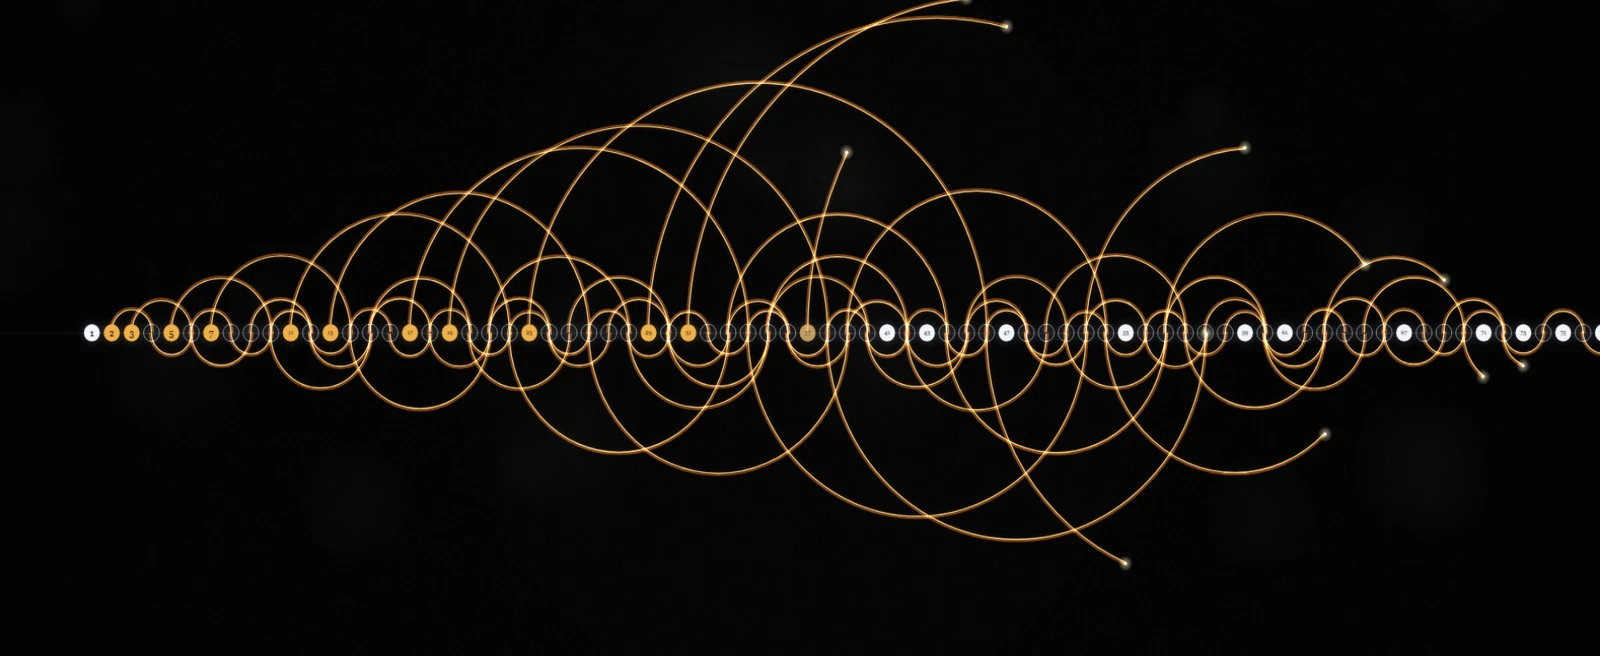
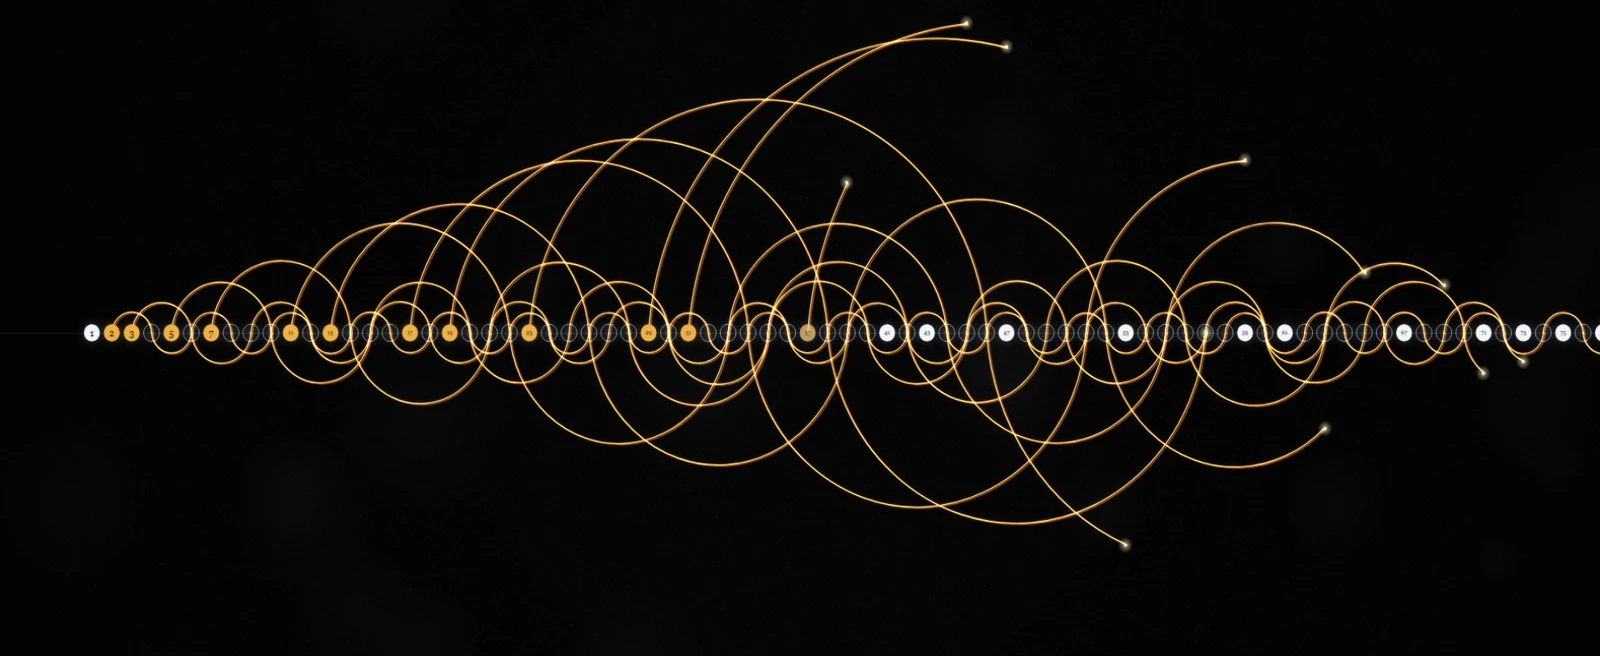
fix(prime-sieve-arcs): let hops meet on the number, with a corner
The kink where a hop crosses the number line was a step: each hop was drawn a
couple of pixels off the line, so the half above and the half below did not
meet. At any zoom that reads as a broken line rather than a hand-drawn one.

A hop is now drawn a hair flatter than a half circle instead. Growing the radius
slightly and pushing the centre to the far side of the line keeps both ends
exactly on their numbers while tilting the ends off vertical, so two hops touch
and the line has a small corner there. hopArc and hopSweep take that bulge and
hopWobble varies it, so no two corners look alike. New tests pin the part that
matters: both ends of a bulged hop land on their numbers, for either side and
for every bulge.

The companion strand beside the core moved to a constant screen shift as well.
It used to be offset along the radius, which flipped sides at a crossing and
left an orange blob right where the join should be clean.

diff --git a/web-projects/prime-sieve-arcs/sieve.test.js b/web-projects/prime-sieve-arcs/sieve.test.js
@@ -119,19 +119,25 @@ describe("hopInProgress", () => {
 });
 
 describe("hopArc", () => {
-  test("turns a hop into a circle centred on the number line", () => {
-    expect(hopArc({ from: 7, to: 14, side: "above" })).toEqual({ center: 10.5, radius: 3.5 });
-    expect(hopArc({ from: 2, to: 4, side: "below" })).toEqual({ center: 3, radius: 1 });
+  test("turns a hop into a circle sitting on the number line", () => {
+    expect(hopArc({ from: 7, to: 14, side: "above" })).toEqual({ center: 10.5, radius: 3.5, offset: 0 });
+    expect(hopArc({ from: 2, to: 4, side: "below" })).toEqual({ center: 3, radius: 1, offset: 0 });
+  });
+
+  test("a bulge grows the circle and pushes its centre off the line", () => {
+    const arc = hopArc({ from: 0, to: 10, side: "above" }, 0.01);
+    expect(arc.center).toBe(5);
+    expect(arc.radius).toBeCloseTo(5.05, 10);
+    // the centre drops by exactly the amount that keeps the ends on the line
+    expect(arc.offset).toBeCloseTo(Math.sqrt(5.05 ** 2 - 25), 10);
   });
 });
 
 describe("hopSweep", () => {
-  const TAU = Math.PI * 2;
-
   test("a finished hop above the line sweeps the upper half clockwise", () => {
     expect(hopSweep({ from: 2, to: 4, side: "above" }, 4)).toEqual({
-      start: Math.PI,
-      end: TAU,
+      start: -Math.PI,
+      end: 0,
       anticlockwise: false,
     });
   });
@@ -144,17 +150,59 @@ describe("hopSweep", () => {
     });
   });
 
-  test("clips a growing hop at the frontier", () => {
+  test("clips a growing hop at the pen", () => {
     const above = hopSweep({ from: 2, to: 4, side: "above" }, 3);
-    expect(above.end).toBeCloseTo(TAU - Math.PI / 2, 10); // apex, straight up
+    expect(above.end).toBeCloseTo(-Math.PI / 2, 10); // apex, straight up
     const below = hopSweep({ from: 4, to: 6, side: "below" }, 5);
     expect(below.end).toBeCloseTo(Math.PI / 2, 10); // apex, straight down
   });
 
-  test("clamps a frontier past the landing and returns null before the start", () => {
-    expect(hopSweep({ from: 2, to: 4, side: "above" }, 99).end).toBeCloseTo(TAU, 10);
+  test("clamps a pen past the landing and returns null before the start", () => {
+    expect(hopSweep({ from: 2, to: 4, side: "above" }, 99).end).toBeCloseTo(0, 10);
     expect(hopSweep({ from: 2, to: 4, side: "above" }, 2)).toBeNull();
     expect(hopSweep({ from: 2, to: 4, side: "above" }, 1)).toBeNull();
+  });
+});
+
+// The lines in the reference frames are not smooth where they cross the number line, but
+// they do meet: no step, no gap. Drawing each hop a hair flatter than a half circle keeps
+// both ends exactly on their numbers while the tangent tilts, so neighbours meet at a
+// small corner.
+describe("a bulged hop still lands on its numbers", () => {
+  const endpoints = (hop, bulge) => {
+    const { center, radius, offset } = hopArc(hop, bulge);
+    const sweep = hopSweep(hop, hop.to, bulge);
+    const lift = hop.side === "above" ? offset : -offset; // centre sits on the far side
+    const point = (angle) => ({
+      x: center + radius * Math.cos(angle),
+      y: lift + radius * Math.sin(angle), // measured down from the number line
+    });
+    return [point(sweep.start), point(sweep.end)];
+  };
+
+  for (const side of ["above", "below"]) {
+    test(`both ends of a hop ${side} the line stay on it`, () => {
+      for (const bulge of [0, 0.0005, 0.004, 0.02]) {
+        const [left, right] = endpoints({ from: 12, to: 30, side }, bulge);
+        expect(left.x).toBeCloseTo(12, 9);
+        expect(right.x).toBeCloseTo(30, 9);
+        expect(left.y).toBeCloseTo(0, 9);
+        expect(right.y).toBeCloseTo(0, 9);
+      }
+    });
+  }
+
+  test("a bulge tilts the ends off vertical, which is what makes the corner", () => {
+    const straight = hopSweep({ from: 0, to: 10, side: "above" }, 10, 0);
+    const tilted = hopSweep({ from: 0, to: 10, side: "above" }, 10, 0.004);
+    expect(tilted.start).toBeGreaterThan(straight.start); // starts short of straight down
+    expect(Math.abs(tilted.start - straight.start)).toBeLessThan(0.2); // and only just
+  });
+
+  test("a bulged hop is a little flatter, never taller", () => {
+    const { radius, offset } = hopArc({ from: 0, to: 10, side: "above" }, 0.004);
+    expect(radius - offset).toBeLessThan(5);
+    expect(radius - offset).toBeGreaterThan(4.5);
   });
 });
 

diff --git a/web-projects/prime-sieve-arcs/sieve.js b/web-projects/prime-sieve-arcs/sieve.js
@@ -6,8 +6,6 @@
 // composite exactly when some hop lands on it. See AGENTS.md for the measurements
 // that fix these rules.
 
-const TAU = Math.PI * 2;
-
 /** Primes from 2 up to and including `limit`. */
 export function primesUpTo(limit) {
   if (!Number.isFinite(limit) || limit < 2) return [];
@@ -54,25 +52,40 @@ export function hopInProgress(p, frontier) {
   return frontier > hop.from && frontier < hop.to ? hop : null;
 }
 
-/** The circle a hop rides on: centre and radius, in number-line units. */
-export function hopArc({ from, to }) {
-  return { center: (from + to) / 2, radius: (to - from) / 2 };
+/**
+ * The circle a hop rides on, in number-line units. With no bulge it is a half circle
+ * centred on the line. A bulge grows the radius and pushes the centre `offset` to the far
+ * side of the line, which keeps both ends exactly on their numbers while the arc gets a
+ * little flatter and its ends tilt off vertical. That tilt is the kink where two hops
+ * meet: they touch, but the line has a corner. See `hopWobble`.
+ */
+export function hopArc({ from, to }, bulge = 0) {
+  const half = (to - from) / 2;
+  const radius = half * (1 + Math.max(bulge, 0));
+  return {
+    center: (from + to) / 2,
+    radius,
+    offset: Math.sqrt(Math.max(radius * radius - half * half, 0)),
+  };
 }
 
 /**
- * Canvas angles for the part of a hop drawn so far, given the frontier at `clipTo`.
- * Returns null while the hop has not started. Canvas y grows downwards, so an "above"
- * hop sweeps from PI to TAU (through 3*PI/2, the top) and a "below" hop from PI to 0.
+ * Canvas angles for the part of a hop drawn so far, given the pen at `clipTo`. Returns
+ * null while the hop has not started. Canvas y grows downwards, so an "above" hop sweeps
+ * from -PI up to 0 (through -PI/2, the top) and a "below" hop from PI down to 0. The
+ * caller puts the centre `offset` below the line for an "above" hop, above it for a
+ * "below" one.
  */
-export function hopSweep(hop, clipTo) {
+export function hopSweep(hop, clipTo, bulge = 0) {
   const { from, to, side } = hop;
   if (clipTo <= from) return null;
-  const { center, radius } = hopArc(hop);
-  const reach = Math.min(Math.max((Math.min(clipTo, to) - center) / radius, -1), 1);
-  const swept = Math.acos(reach); // PI at the left end, 0 at the right end
+  const { center, radius } = hopArc(hop, bulge);
+  const swept = (unit) => Math.acos(Math.min(Math.max((unit - center) / radius, -1), 1));
+  const start = swept(from); // PI at the left end with no bulge, a little less with one
+  const end = swept(Math.min(clipTo, to)); // 0 at the right end
   return side === "above"
-    ? { start: Math.PI, end: TAU - swept, anticlockwise: false }
-    : { start: Math.PI, end: swept, anticlockwise: true };
+    ? { start: -start, end: end === 0 ? 0 : -end, anticlockwise: false }
+    : { start, end, anticlockwise: true };
 }
 
 /** Pixels per number-line unit so that `visibleUnits` fit inside a padded width. */
@@ -167,9 +180,10 @@ export function numberStateAt(n, elapsed, pace = DEFAULT_PACE, fadeSeconds = 0.5
 }
 
 /**
- * A tiny offset, -1 to 1, for one hop. The lines in the reference frames do not meet
- * cleanly where they cross the number line, so each hop sits a hair off its neighbour.
- * Deterministic, because the picture is redrawn from scratch every frame.
+ * A tiny number, -1 to 1, that varies one hop's bulge. The lines in the reference frames
+ * are not smooth where they cross the number line, and varying the bulge keeps those
+ * corners from all looking alike. Deterministic, because the picture is redrawn from
+ * scratch every frame.
  */
 export function hopWobble(prime, index) {
   const spun = Math.sin(prime * 12.9898 + index * 78.233) * 43758.5453;

diff --git a/web-projects/prime-sieve-arcs/render.js b/web-projects/prime-sieve-arcs/render.js
@@ -68,7 +68,10 @@ const LOOP = params.get("loop") !== "0";
 const HOLD_SECONDS = 3;
 const FADE_SECONDS = 0.9; // the fade out at the end of a sweep
 const CHIP_FADE = 0.45; // how long a chip takes to change look
-const KINK_PX = 1.7; // how far a hop sits off its neighbour where they meet
+// How much flatter than a half circle a hop is drawn. It keeps both ends exactly on their
+// numbers while the ends tilt off vertical, so two hops meet at a small corner instead of
+// a step. The reference frames show that corner; hopWobble varies it hop by hop.
+const BULGE = 0.004;
 
 // Sampled from the reference frames: warm lines, white chips for numbers still in play,
 // amber for a prime that has started hopping, a bare ring for one that is crossed out.
@@ -208,26 +211,30 @@ const GLOW = {
 
 /** Draw one hop, up to `clipTo`. Returns the pen point, or null if it has not started. */
 function strokeHop(c, hop, clipTo, prime, index) {
-  const sweep = hopSweep(hop, clipTo);
+  const bulge = BULGE * (0.6 + 0.4 * hopWobble(prime, index));
+  const sweep = hopSweep(hop, clipTo, bulge);
   if (!sweep) return null;
-  const { center, radius } = hopArc(hop);
+  const { center, radius, offset } = hopArc(hop, bulge);
   const cx = x(center);
   const r = radius * view.ppu;
-  // the hop sits a hair off the line, so neighbours meet with a small kink
-  const cy = view.axisY + hopWobble(prime, index) * KINK_PX;
+  // the centre sits on the far side of the line, which tilts the ends and makes the kink
+  const cy = view.axisY + (hop.side === "above" ? offset : -offset) * view.ppu;
 
   c.save();
   c.globalCompositeOperation = "lighter";
   c.lineCap = "round";
-  // [colour, line width, radius offset]: the offset splits the strand from the core
+  // [colour, line width, sideways shift]: the shift splits the strand from the core, the
+  // way the reference frames show two tones side by side. It has to be a shift across the
+  // screen, not along the radius, or the strand would jump sides where a hop crosses the
+  // number line and break the join.
   const passes = [
-    [COLORS.halo, 8, 0],
-    [COLORS.strand, 1.5, 2.1],
-    [COLORS.core, 1.4, 0],
+    [COLORS.halo, 8, 0, 0],
+    [COLORS.strand, 1.5, 1.9, 1.2],
+    [COLORS.core, 1.4, 0, 0],
   ];
-  for (const [color, width, dr] of passes) {
+  for (const [color, width, dx, dy] of passes) {
     c.beginPath();
-    c.arc(cx, cy, Math.max(r + dr, 0.5), sweep.start, sweep.end, sweep.anticlockwise);
+    c.arc(cx + dx, cy + dy, Math.max(r, 0.5), sweep.start, sweep.end, sweep.anticlockwise);
     c.strokeStyle = color;
     c.lineWidth = width;
     c.stroke();

diff --git a/web-projects/prime-sieve-arcs/AGENTS.md b/web-projects/prime-sieve-arcs/AGENTS.md
@@ -49,7 +49,7 @@ not committed (they came as pasted images with no files), so the measurements ar
 | Camera anchor | 1 stays at the left edge, the leading pen sits near the right edge |
 | Pens | Staggered, never one shared front; the newest chains trail the leading arcs |
 | Amber against white | Amber ran to 17 while 19 was still white, and to 37 while 41 was still white |
-| Lines | They do not meet cleanly where they cross the line, a hop sits a hair off its neighbour |
+| Lines | Not smooth where they cross the line: the two halves meet on the number, but at a corner |
 | Digits | A serif face |
 
 ## The model
@@ -74,7 +74,7 @@ across a range of ratios.
 
 | File | Role |
 |---|---|
-| `sieve.js` | Pure logic: primes, hop geometry, canvas sweep angles, pace, chip states, the kink offset, camera maths, timeline state machine. No DOM. |
+| `sieve.js` | Pure logic: primes, hop geometry, canvas sweep angles, pace, chip states, the kink, camera maths, timeline state machine. No DOM. |
 | `sieve.test.js` | Bun tests for every export of `sieve.js`. |
 | `render.js` | Canvas, input, HUD. Holds no maths of its own. |
 | `index.html`, `style.css` | Page and overlay. |
@@ -93,8 +93,12 @@ across a range of ratios.
   "already drawn" sets. That is what makes `?at=` and the resize path correct for free.
 - **Chips mark every number.** Composites are not hidden, they are emptied to rings. The
   ring pattern is the result of the sieve, so do not skip drawing them.
-- **Keep the kink.** `hopWobble` puts each hop a hair off its neighbour where they meet.
-  It is copied from the source frames on purpose.
+- **Keep the kink, keep the join.** Each hop is drawn a hair flatter than a half circle
+  (`hopArc(hop, bulge)`), which keeps both ends exactly on their numbers while the ends tilt
+  off vertical, so two hops meet at a small corner. `hopWobble` varies the bulge hop by hop.
+  Never fake the kink by moving a hop off the line: that leaves a step, and the two halves
+  stop meeting. The strand beside the core is shifted across the screen for the same reason,
+  not along the radius, or it would jump sides at the crossing.
 
 ## Gotchas
 
@@ -102,8 +106,9 @@ across a range of ratios.
   `Number(params.get(name))` silently becomes 0 and then clamps to the minimum. Guard with
   `params.has(name)` first. This bug once made `limit` 12 instead of 120.
 - **Angles run in canvas order.** Canvas y grows downwards, so a hop above the line sweeps
-  from `PI` to `2*PI` (through `3*PI/2`, the top) and a hop below the line from `PI` down to
-  `0`. `hopSweep` owns this; do not re-derive it.
+  from `-PI` up to `0` (through `-PI/2`, the top) and a hop below the line from `PI` down to
+  `0`. With a bulge the ends stop a little short of `-PI` and `PI`. `hopSweep` owns all of
+  this; do not re-derive it.
 - **A hidden tab never fires `requestAnimationFrame`.** A headless browser without a shown
   window renders one frame and stops, so the animation cannot be watched that way. Use
   `?at=<number>` to capture any frame instead. On Windows a headless window also cannot go

diff --git a/web-projects/prime-sieve-arcs/adr/0001-reference-frame-measured-as-the-spec.md b/web-projects/prime-sieve-arcs/adr/0001-reference-frame-measured-as-the-spec.md
@@ -49,8 +49,8 @@ number that no hop lands on is prime. The numbers on the chips are the primes, i
 their true positions on a linear number line at 23.1 pixels per number.
 
 The palette was read straight out of the same frame, and the code carries the measured
-values: a pale yellow-green core (`#e6e689`) with a red-orange strand beside it, and a
-violet halo under each prime whose falloff was traced point by point.
+values: a pale warm core with a red-orange strand beside it, over a glow on the number line
+whose falloff was traced point by point.
 
 The later frames added the behaviour over time, and each point became a rule in the code:
 
@@ -65,9 +65,11 @@ The later frames added the behaviour over time, and each point became a rule in 
   gets there first, so the scanner can never be wrong. `crossTime` and its tests hold that
   margin for any ratio above 1.
 - **The camera zooms out**, keeping 1 at the left. See ADR 0002.
-- **The lines do not meet cleanly.** Where a hop crosses the number line it sits a hair off
-  its neighbour. `hopWobble` reproduces that on purpose; it is a signature of the source,
-  not a defect to fix.
+- **The lines are not smooth where they cross.** The two halves do meet on the number, but
+  the line has a corner there. Each hop is drawn a hair flatter than a half circle, which
+  keeps its ends on their numbers and tilts them off vertical; `hopWobble` varies it. This is
+  a signature of the source, not a defect to fix. The first attempt shifted whole hops off
+  the line instead, which left a visible step, and a step is a defect.
 
 Two consequences follow for the code:
 
@@ -82,8 +84,9 @@ Two consequences follow for the code:
 
 - The animation is a true rendering of a real algorithm, so the chips, the gaps and the
   growing fan all mean something. It teaches instead of decorating.
-- The look was reproduced closely: the violet falloff of the finished render matches the
-  frame within about 20% at every distance measured, and the geometry matches exactly.
+- The look was reproduced closely: the geometry matches exactly, and the glow falloff of the
+  finished render was matched against the frame to within about 20% at every distance
+  measured.
 - Any future change to the look has a reference to answer to, which is committed and
   will not disappear.
 - The measurement itself was cheap to redo and is written down in `AGENTS.md`, so nobody
